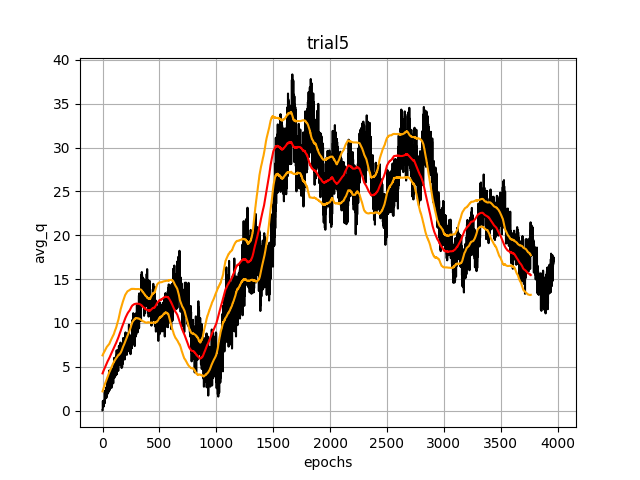
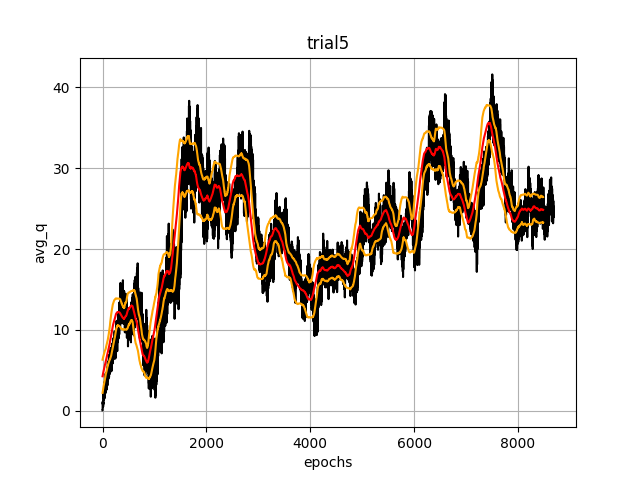
update plots

diff --git a/python/main.py b/python/main.py
@@ -30,7 +30,7 @@ def create_memory_config(is_priority_experience_replay):
         'priority_alpha': 0.6,
         'priority_beta': 0.4,
         'priority_beta_decay_period': 10000,
-        'clipped_max_priority_score': 1
+        'clipped_max_priority_score': 10
     }
     if not is_priority_experience_replay:
         memory_config.update({
@@ -64,10 +64,10 @@ def create_config(is_priority_experience_replay=True):
         'buffer_size': 4,
         'wait_after_restart': 1.5,
         'num_control_environments': 500,
-        'copy_train_to_target_every_epoch': 20,
+        'copy_train_to_target_every_epoch': 10,
         'keep_models': 5,
         'save_model_every_epoch': 20,
-        'optimizer': RMSprop(lr=0.00025, rho=0.9, epsilon=None, decay=0),
+        'optimizer': RMSprop(lr=0.0001, rho=0.9, epsilon=None, decay=0),
         'run_reward': 1,
         'jump_reward': 0,
         'duck_reward': 0,
